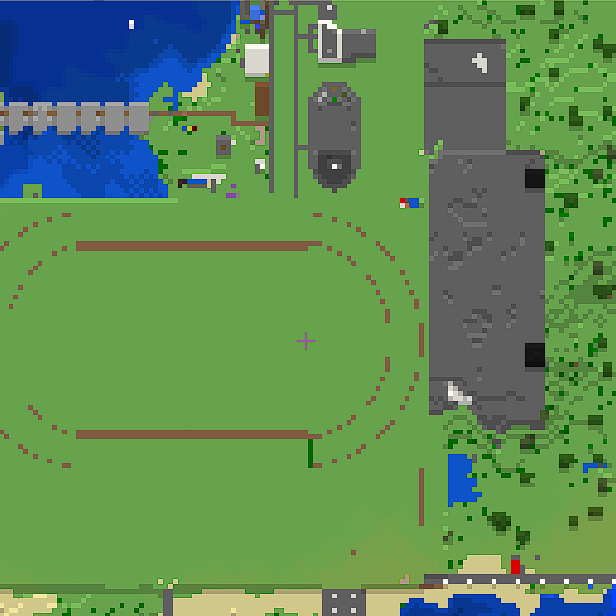
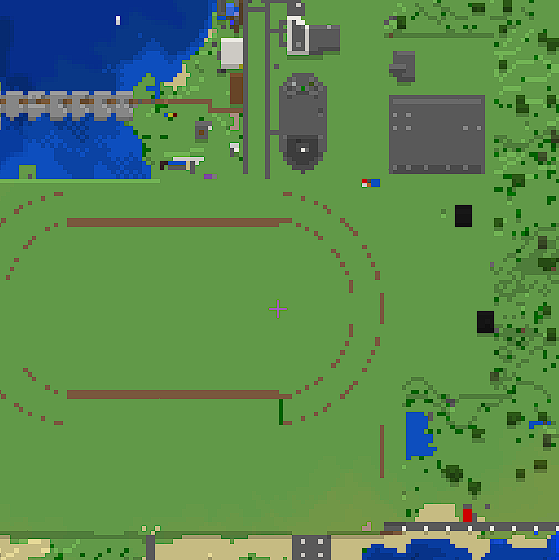
マップを更新

diff --git a/index.html b/index.html
@@ -74,8 +74,15 @@
     var image14 = L.imageOverlay('mapData/0_2.png'+mapVersion, [[0, 500 * 2], [500, 500 * 3]]).addTo(map);
     var image15 = L.imageOverlay('mapData/1_2.png'+mapVersion, [[500, 500 * 2], [500 * 2, 500 * 3]]).addTo(map);
     var image16 = L.imageOverlay('mapData/2_0.png'+mapVersion, [[500 * 2, 0], [500 * 3, 500]]).addTo(map);
-    var image17 = L.imageOverlay('mapData/3_0.png'+mapVersion, [[500 * 3, 0], [500 * 4, 500]]).addTo(map);
-    var image18 = L.imageOverlay('mapData/3_-1.png'+mapVersion, [[500 * 3, -500], [500 * 4, 0]]).addTo(map);
+    var image17 = L.imageOverlay('mapData/2_1.png'+mapVersion, [[500 * 2, 500], [500 * 3, 500 * 2]]).addTo(map);
+    var image18 = L.imageOverlay('mapData/3_0.png'+mapVersion, [[500 * 3, 0], [500 * 4, 500]]).addTo(map);
+    var image19 = L.imageOverlay('mapData/3_-1.png'+mapVersion, [[500 * 3, -500], [500 * 4, 0]]).addTo(map);
+    var image20 = L.imageOverlay('mapData/1_-3.png'+mapVersion, [[500, -500 * 3], [500 * 2, -500*2]]).addTo(map);
+    var image21 = L.imageOverlay('mapData/1_-4.png'+mapVersion, [[500, -500 * 4], [500 * 2, -500*3]]).addTo(map);
+    var image22 = L.imageOverlay('mapData/1_-5.png'+mapVersion, [[500, -500 * 5], [500 * 2, -500*4]]).addTo(map);
+    var image23 = L.imageOverlay('mapData/1_-6.png'+mapVersion, [[500, -500 * 6], [500 * 2, -500*5]]).addTo(map);
+    var image24 = L.imageOverlay('mapData/2_-6.png'+mapVersion, [[500 * 2, -500 * 6], [500 * 3, -500*5]]).addTo(map);
+    var image25 = L.imageOverlay('mapData/1_-7.png'+mapVersion, [[500, -500 * 7], [500 * 2, -500*6]]).addTo(map);
 
     // マップの表示範囲
     var bounds = [[-500, -500 * 2], [500 * 4, 500 * 3]]; // 全体をカバーするサイズ
@@ -89,7 +96,7 @@
     var marker3 = L.marker([250, 1140]).addTo(map)
       .bindPopup('<h2>デンチョス城</h2><p>座標: 1545 65 775<br>制作者: 光奏</p><img style="width: 300px;" src="images/chos_castle.png">');
     var marker4 = L.marker([-100, 1140]).addTo(map)
-      .bindPopup('<h2>建設中</h2><p>座標: 1550 231 950<br>制作者: 光奏</p>');
+      .bindPopup('<h2>建設中？</h2><p>座標: 1550 231 950<br>制作者: 光奏</p><img style="width: 300px;" src="images/denchos_kuchu.jpeg">');
     var marker5 = L.marker([-300, 790]).addTo(map)
       .bindPopup('<h2>BIG KUCHIBASHI</h2><p>座標: 1370 62 1114<br>制作者: 光奏</p><img style="width: 300px;" src="images/water_kuchibashi.png">');
     var marker6 = L.marker([730, 650]).addTo(map)
@@ -180,6 +187,22 @@
       .bindPopup('<h2>イモガンダム</h2><p>座標: 1123 65 892<br>制作者: 塩ポテト君</p><img style="width: 300px;" src="images/imogandam.png">');
     var marker49 = L.marker([230, 270]).addTo(map)
       .bindPopup('<h2>ナス公園（笑）</h2><p>制作者: 塩ポテト君</p><img style="width: 300px;" src="images/nasupark.png">');
+    var marker50 = L.marker([60, 110]).addTo(map)
+      .bindPopup('<h2>とじのすけ像</h2><p>制作者: 塩ポテト君</p><img style="width: 300px;" src="images/tojinosuke.jpeg">');
+    var marker51 = L.marker([90, 200]).addTo(map)
+      .bindPopup('<h2>溶岩にゃぷ</h2><p>制作者: 塩ポテト君</p><img style="width: 300px;" src="images/lavanyap.jpeg">');
+    var marker52 = L.marker([-400, 200]).addTo(map)
+      .bindPopup('<h2>ナスランド</h2><p>制作者: 塩ポテト君</p><img style="width: 300px;" src="images/nasuland.jpeg">');
+    var marker53 = L.marker([250, 1350]).addTo(map)
+      .bindPopup('<h2>武装要塞国家アウターヘブン</h2><p>座標: 1633 63 766<br>制作者: ドグワン</p><img style="width: 300px;" src="images/dogwan_village.jpeg">');
+    var marker54 = L.marker([1050, 810]).addTo(map)
+      .bindPopup('<h2>金うんち神社</h2><p>座標: 1363 70 420<br>制作者: しなり？</p><img style="width: 300px;" src="images/gold_unchi.jpeg">');
+    var marker55 = L.marker([1200, 390]).addTo(map)
+      .bindPopup('<h2>海上都市 芋ータル(建設中)</h2><p>座標: 1161 65 346<br>制作者: 塩ポテト君</p><img style="width: 300px;" src="images/imo_taru.jpeg">');
+    var marker56 = L.marker([1000, -2800]).addTo(map)
+      .bindPopup('<h2>タマナシのやらかし見学ロード</h2><p>座標: -479 72 427<br>やらかし者: タマナシ</p><img style="width: 300px;" src="images/tamanashi_tnt.jpeg">');
+    var marker57  = L.marker([600, -3200]).addTo(map)
+    .bindPopup('<h2>月玉の家</h2><p>座標: -681 63 645<br>制作者: 月玉</p><img style="width: 300px;" src="images/tsukitama_house.jpeg">');
 
     // 線路用のレイヤーグループを作る
     var railwayLayer = L.layerGroup([]);
@@ -200,9 +223,11 @@
     var polyline2 = L.polyline([
       [170, 473],
       [200, 473],
-      [200, 155],
-      [260, 155],
-      [260, 150]
+      [200, 175],
+      [50, 175],
+      [50, 148],
+      [-300, 148],
+      [-300, 190]
     ], { color: '#ff8888', className: "railway-line" }).addTo(railwayLayer);
     polyline2.bindTooltip('ポテト線', {
       permanent: true,     // 常に表示する
@@ -261,10 +286,12 @@
     }).openTooltip();
 
     var polyline7 = L.polyline([
-      [750, -90],
-      [750, -1000]
+      [750, 0],
+      [750, -2540],
+      [1050, -2540],
+      [1050, -2780]
     ], { color: '#00ffff', className: "railway-line" }).addTo(railwayLayer);
-    polyline7.bindTooltip('初期スポーン接続', {
+    polyline7.bindTooltip('すしスキー線', {
       permanent: true,     // 常に表示する
       direction: 'center', // 線の中心に表示
       className: 'railway-label' // CSSでデザインもできるよ
@@ -272,9 +299,24 @@
 
     var polyline8 = L.polyline([
       [530, 845],
-      [872, 845]
+      [942, 845],
+      [942, 750]
     ], { color: '#0000ff', className: "railway-line" }).addTo(railwayLayer);
     polyline8.bindTooltip('整地師線', {
+      permanent: true,     // 常に表示する
+      direction: 'center', // 線の中心に表示
+      className: 'railway-label' // CSSでデザインもできるよ
+    }).openTooltip();
+
+    var polyline9 = L.polyline([
+      [450, 1150],
+      [450, 1210],
+      [375, 1210],
+      [375, 1265],
+      [290, 1265],
+      [290, 1290]
+    ], { color: '#ffaa00', className: "railway-line" }).addTo(railwayLayer);
+    polyline9.bindTooltip('ドグワン線', {
       permanent: true,     // 常に表示する
       direction: 'center', // 線の中心に表示
       className: 'railway-label' // CSSでデザインもできるよ
@@ -293,7 +335,29 @@
       .setLatLng(point1)
       .addTo(railwayLayer);
 
-
+    var point1_1 = [105, 175];
+    L.marker(point1_1, { icon: myIcon1 }).addTo(railwayLayer)
+    L.tooltip({
+      permanent: true,
+      direction: 'right', // 右側に表示
+      className: 'station-label',
+      offset: [10, 0]
+    })
+      .setContent('ポテトぺす駅')
+      .setLatLng(point1_1)
+      .addTo(railwayLayer);
+    
+    var point1_2 = [-300, 190];
+    L.marker(point1_2, { icon: myIcon1 }).addTo(railwayLayer)
+    L.tooltip({
+      permanent: true,
+      direction: 'right', // 右側に表示
+      className: 'station-label',
+      offset: [10, 0]
+    })
+      .setContent('ナスランド駅')
+      .setLatLng(point1_2)
+      .addTo(railwayLayer);
 
     var point2 = [80, -550];
     var myIcon2 = L.divIcon({ className: 'icon2', iconAnchor: [13, 13] });
@@ -345,6 +409,18 @@
       .setContent('中央駅')
       .setLatLng(point4)
       .addTo(railwayLayer);
+    
+    var point4_1 = [1050, -2780];
+    L.marker(point4_1, { icon: myIcon4 }).addTo(railwayLayer)
+    L.tooltip({
+      permanent: true,
+      direction: 'right', // 右側に表示
+      className: 'station-label',
+      offset: [10, 0]
+    })
+      .setContent('初期スポーン駅')
+      .setLatLng(point4_1)
+      .addTo(railwayLayer);
 
     var point5 = [675, 290];
     var myIcon5 = L.divIcon({ className: 'icon5', iconAnchor: [13, 13] });
@@ -395,7 +471,7 @@
       .setLatLng(point5_3)
       .addTo(railwayLayer);
 
-    var point6 = [872, 845];
+    var point6 = [942, 750];
     var myIcon6 = L.divIcon({ className: 'icon6', iconAnchor: [13, 13] });
     L.marker(point6, { icon: myIcon6 }).addTo(railwayLayer)
     L.tooltip({
@@ -404,8 +480,21 @@
       className: 'station-label',
       offset: [10, 0]
     })
-      .setContent('仮設整地師ビル前駅')
+      .setContent('拠点前駅')
       .setLatLng(point6)
+      .addTo(railwayLayer);
+
+    var point7 = [290, 1290];
+    var myIcon7 = L.divIcon({ className: 'icon7', iconAnchor: [13, 13] });
+    L.marker(point7, { icon: myIcon7 }).addTo(railwayLayer)
+    L.tooltip({
+      permanent: true,
+      direction: 'right', // 右側に表示
+      className: 'station-label',
+      offset: [10, 0]
+    })
+      .setContent('アウターヘブン駅')
+      .setLatLng(point7)
       .addTo(railwayLayer);
 
     railwayLayer.addTo(map)
@@ -469,6 +558,15 @@
       border: 3px solid #fdfdfd;
       box-shadow: 1px 1px 4px rgba(0, 0, 0, 0.8);
       background-color: rgb(0, 0, 255);
+    }
+
+    .icon7 {
+      width: 20px !important;
+      height: 20px !important;
+      border-radius: 10px;
+      border: 3px solid #fdfdfd;
+      box-shadow: 1px 1px 4px rgba(0, 0, 0, 0.8);
+      background-color: rgb(255, 174, 0);
     }
   </style>
 
